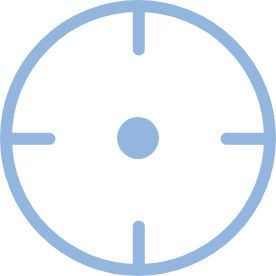
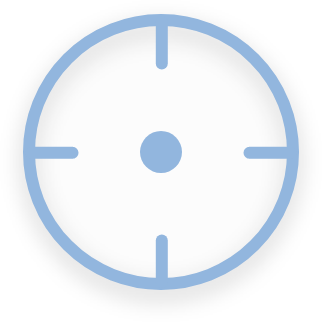
현위치 기록 아이콘 그림자

Changed region(s): [[0.0, 0.0, 1.0, 1.0], [0.4058, 0.4348, 0.5797, 0.5797], [0.4348, 0.4058, 0.5507, 0.4638]]

diff --git a/Styles/TodayRouteStyles.js b/Styles/TodayRouteStyles.js
@@ -41,7 +41,7 @@ const styles = StyleSheet.create({
   contentContainer: {
     width: width,
     height: height * 0.34,
-    marginBottom: height * 0.17,
+    marginBottom: height * 0.18,
   },
   descContainer: {
     flexDirection: "row",
@@ -92,7 +92,6 @@ const styles = StyleSheet.create({
     height: height * 0.14,
     alignItems: "center",
     justifyContent: "space-between",
-    marginTop: height * 0.04,
     marginBottom: 20,
   },
   textLocation: {

diff --git a/Components/Screens/TodayRouteScreen.js b/Components/Screens/TodayRouteScreen.js
@@ -81,7 +81,7 @@ class TodayRoute extends React.Component {
             >
               <Image
                 source={require(IMAGE_URL + "/btn_location.png")}
-                style={{ width: 92, height: 92, resizeMode: "contain" }}
+                style={{ width: 107, height: 107, resizeMode: "contain" }}
               />
             </TouchableOpacity>
             {haveLocation ? (
